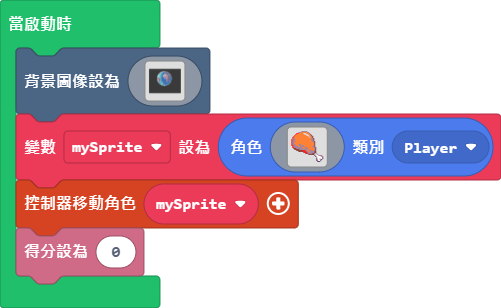
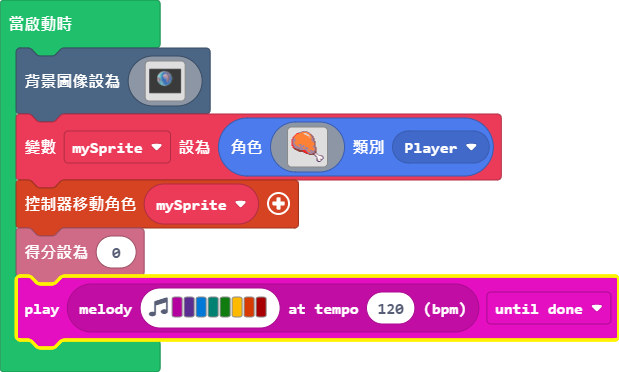
更新 pxt.json, main.blocks, main.ts

diff --git a/main.ts b/main.ts
@@ -156,3 +156,4 @@ let mySprite = sprites.create(img`
     `, SpriteKind.Player)
 controller.moveSprite(mySprite)
 info.setScore(0)
+music.play(music.stringPlayable("C D E F G A B C5 ", 120), music.PlaybackMode.UntilDone)
